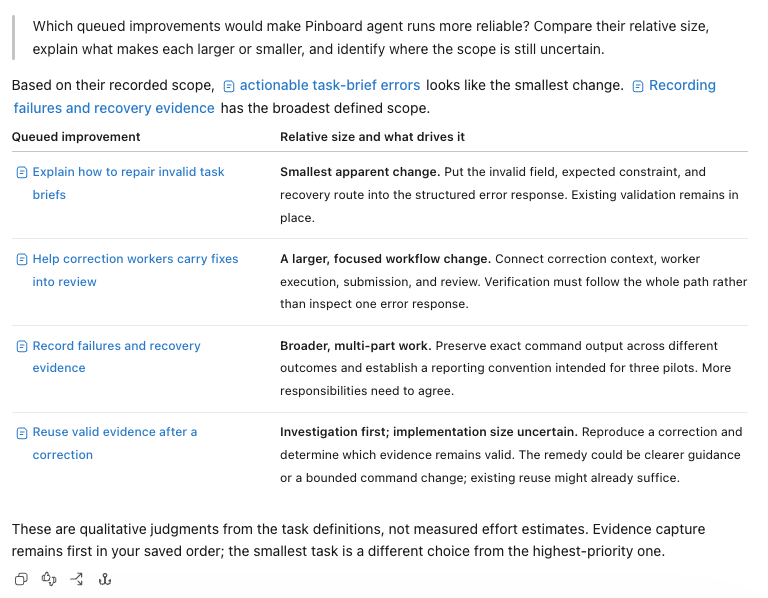
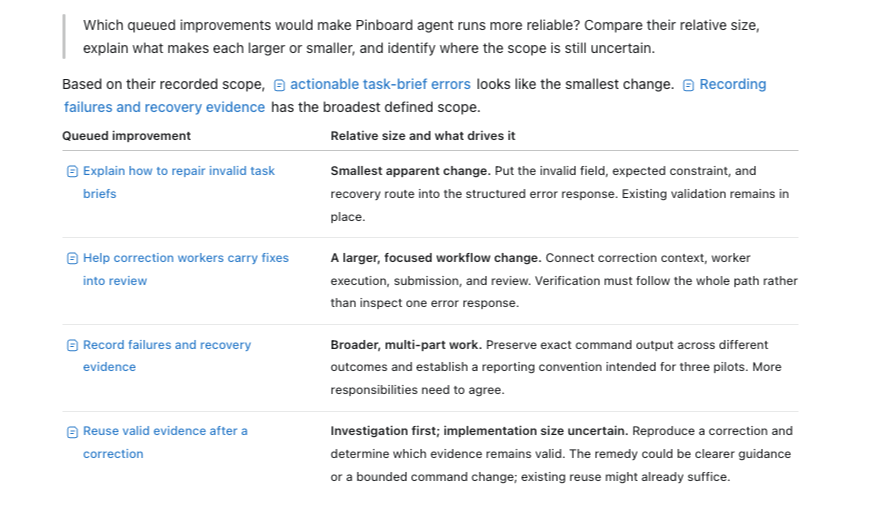
Connect README backlog context to delivery and align theme captures

Changed region(s): [[0.0, 0.0312, 0.9688, 0.9688], [0.0, 0.6562, 0.3125, 0.7812], [0.125, 0.9688, 0.1562, 1.0]]

diff --git a/README.md b/README.md
@@ -4,9 +4,11 @@
 
 <img align="right" width="430" src="assets/pinboard-investigation-office.png" alt="A 1970s office worker explaining a wall-sized investigation board covered with a map, notes, portraits, diagrams, colored markers, and connecting thread">
 
-Working with a coding agent can stay fluid: follow an idea, ask for the change, and keep moving. You do not need to maintain a parallel version of the project in a ticket system. Pinboard keeps that rhythm while recording ideas, decisions, work, and reviews beside the repository.
+Working with a coding agent can stay fluid: follow an idea, ask for the change, and keep moving. But the backlog grows. Ideas lose their context, priorities become unclear, and unfinished work gets harder to pick up.
 
-Your coding agent still does the work. Pinboard adds guardrails that let the flow continue without losing the decisions behind it.
+Pinboard helps you keep that backlog useful through the conversation you already have with your coding agent. It records tasks, priorities, dependencies, and the decisions behind them beside the repository.
+
+That context carries into delivery. Accepted direction becomes a precise brief that guides implementation and a separate review. Later sessions can continue from the recorded scope, progress, and evidence, helping you and the agent avoid building on forgotten choices or assumptions neither of you meant to make.
 
 <br clear="right">
 <br>
@@ -23,18 +25,23 @@ You decide what belongs in the product. You accept or reject proposed work, sett
 Pinboard keeps those decisions attached to the work. It:
 
 - preserves ideas without quietly starting them;
-- saves your explicit priority order
+- saves your explicit priority order and dependencies;
 - turns accepted direction into a stable brief;
 - carries that direction through implementation and a separate review of both the request and the change; and
 - restores the decision, current work, and evidence after an interruption.
 
 The coding agent operates that workflow and brings material choices back to you in ordinary language.
 
-## Choose what to build next
+## Explore your backlog in conversation
 
-Ask your coding agent to compare queued improvements by relative size and explain where the scope is uncertain. Here Pinboard uses its own backlog to compare four ways to make agent runs more reliable: clearer task-brief errors, a complete correction workflow, trustworthy command evidence, and reuse of valid evidence after a correction.
+The same context that guides implementation also helps your agent reason about what comes next. Ask it to compare tasks, explain dependencies, or identify work that fits your current goals.
 
-![A native Codex conversation comparing four queued Pinboard improvements by relative size and explaining uncertainty](assets/pinboard-work-selection.png)
+Here, the agent uses Pinboard's own backlog to compare the relative size of queued improvements and explain where their scope remains uncertain.
+
+<picture>
+  <source media="(prefers-color-scheme: dark)" srcset="assets/pinboard-work-selection-dark.png">
+  <img src="assets/pinboard-work-selection.png" alt="A native Codex conversation comparing four queued Pinboard improvements by relative size and explaining uncertainty">
+</picture>
 
 The answer links to the recorded tasks and makes qualitative judgments, not measured effort estimates. The smallest apparent change differs from the first task in the saved priority order, and existing evidence reuse may already suffice. Comparing work does not start implementation.
 
